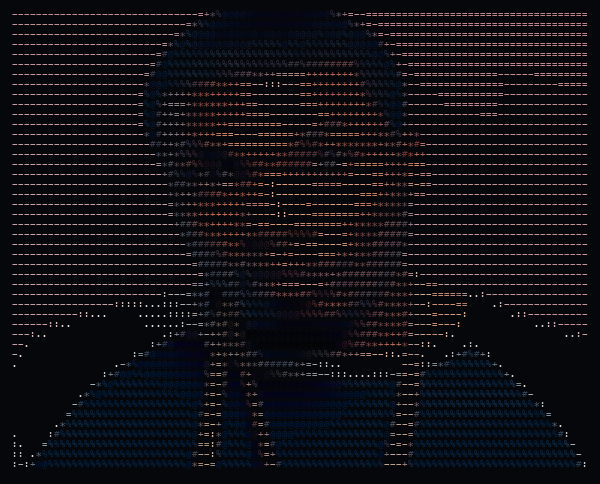
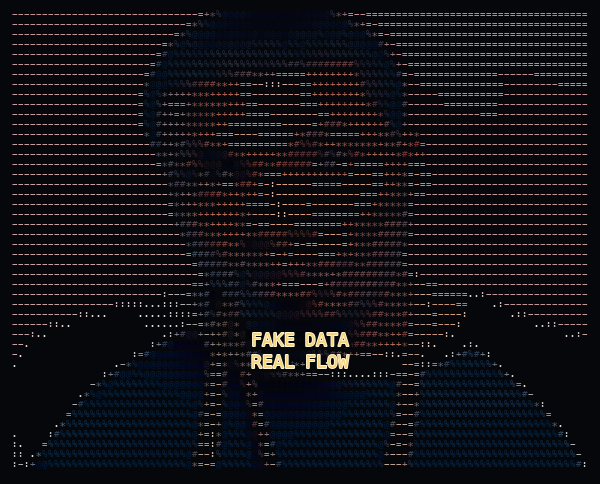
Put MockMill slogan on ASCII poster

Changed region(s): [[0.42, 0.6818, 0.6, 0.7748]]

diff --git a/tools/make_color_ascii.py b/tools/make_color_ascii.py
@@ -11,7 +11,7 @@ from PIL import Image, ImageDraw, ImageFont, ImageOps
 CHARS = "@%#*+=-:. "
 
 
-def render(source: Path, output: Path, width: int = 108) -> None:
+def render(source: Path, output: Path, width: int = 108, label: str = "") -> None:
     image = Image.open(source).convert("RGB")
     image = ImageOps.exif_transpose(image)
     ratio = image.height / image.width
@@ -38,6 +38,16 @@ def render(source: Path, output: Path, width: int = 108) -> None:
                 luminance = (0.2126 * r + 0.7152 * g + 0.0722 * b) / 255
                 char = CHARS[min(len(CHARS) - 1, int(luminance * len(CHARS)))]
                 draw.text((12 + x * 6, 8 + y * 10), char, font=font, fill=(r, g, b))
+        if label:
+            label_font = ImageFont.truetype("/System/Library/Fonts/Menlo.ttc", 18)
+            label_lines = label.split(" / ")
+            y = int(canvas.height * 0.68)
+            for line in label_lines:
+                box = draw.textbbox((0, 0), line, font=label_font)
+                x = (canvas.width - (box[2] - box[0])) // 2
+                draw.text((x + 2, y + 2), line, font=label_font, fill="#05070b", stroke_width=2, stroke_fill="#05070b")
+                draw.text((x, y), line, font=label_font, fill="#f4d37d", stroke_width=1, stroke_fill="#fff4cf")
+                y += 22
         output.parent.mkdir(parents=True, exist_ok=True)
         canvas.save(output, "PNG")
         return
@@ -82,5 +92,6 @@ if __name__ == "__main__":
     parser.add_argument("source", type=Path)
     parser.add_argument("output", type=Path)
     parser.add_argument("--width", type=int, default=108)
+    parser.add_argument("--label", default="")
     args = parser.parse_args()
-    render(args.source, args.output, args.width)
+    render(args.source, args.output, args.width, args.label)
